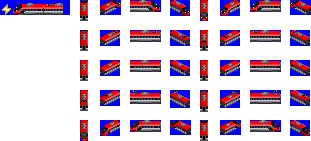
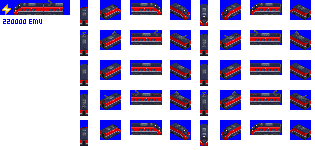
Apply #428: Enhance ITX-Saemaul's graphic and support 32bpp

diff --git a/docs/changelog.md b/docs/changelog.md
@@ -10,6 +10,7 @@
  * 추가: 통일호 침대차 도색 [#421]
  * 추가: 벌크시멘트 화차 [#372]
  * 추가: 카페 객차 무궁화호 구 도색 (도색 F) [#367]
+ * 변경: ITX-새마을 그래픽 변경 및 32bpp 지원 [#428]
  * 변경: 도시철도 차량의 무게를 실제 스펙의 평균값으로 변경 [#80]
  * 변경: 컨테이너 평판화차, 평판화차의 그래픽과 길이 변경 [#403, #157]
  * 변경: 유조차 그래픽 변경 [#372]
